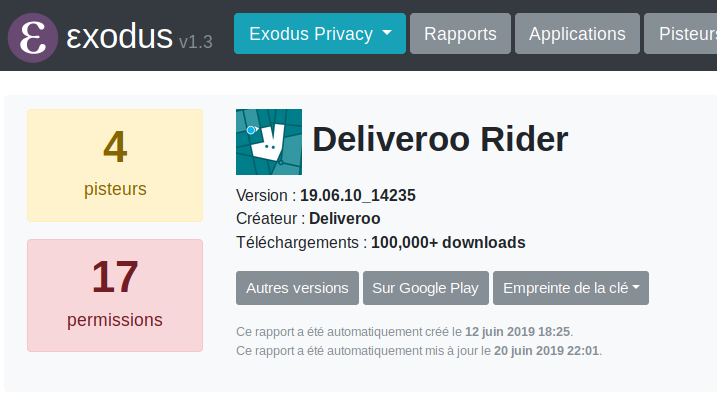
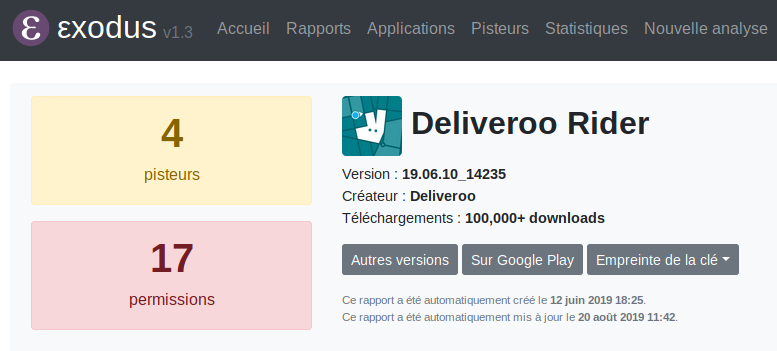
add the english translation focus on deliveroo (#26)
* add the english translation focus on deliveroo

* Correct some typos, add fa-hand-point-right in order to have the same look as the french version, reformate text to have shorter lines

* Updated deliveroo screenshots

* Removed extra line breaks and fixed english typos

diff --git a/content/post/deliveroorider.fr.md b/content/post/deliveroorider.fr.md
@@ -14,16 +14,13 @@ La plate-forme d'analyse εxodus permet de connaître le nombre de pisteurs dans
 * Elle ne peut pas préjuger du comportement des pisteurs.
 
 <center>
-<a href="https://reports.exodus-privacy.eu.org/fr/reports/84460/">
-            <img src="/media/deliverooreport.png" caption="le rapport d'analyse de Deliveroo rider">
-        </a>
+  <a href="https://reports.exodus-privacy.eu.org/fr/reports/84460/">
+    <img src="/media/deliverooreport.png" caption="le rapport d'analyse de Deliveroo rider">
+  </a>
 </center>
 
 C'est pourquoi nous utilisons le travail d'un projet libre intitulé
-[PiRanhaLysis](https://github.com/PiRanhaLysis) qui permet de faire de l'analyse
-dynamique. Comme expliqué dans l'enquête du Média TV, l'analyse avec le boîtier
-PiRogue permet d'intercepter et d'observer les données transmises par le
-téléphone, pendant l'utilisation d'une application (ici, Deliveroo Rider).
+[PiRanhaLysis](https://github.com/PiRanhaLysis) qui permet de faire de l'analyse dynamique. Comme expliqué dans l'enquête du Média TV, l'analyse avec le boîtier PiRogue permet d'intercepter et d'observer les données transmises par le téléphone, pendant l'utilisation d'une application (ici, Deliveroo Rider).
 
 <i class="fas fa-4X fa-hand-point-right"></i>&nbsp;Le téléphone utilisé ici est un Samsung SM-G361F, sous Android 5.1.1. Les résultats d'analyse peuvent bien sûr varier en fonction du téléphone utilisé et de son système d'exploitation.
 
@@ -36,46 +33,32 @@ L'analyse du trafic met en évidence des envois de données vers plusieurs desti
 * `Segment`, un analyseur de comportement[^1] ;
 * `Instabug` un logiciel permettant d'envoyer rapports de bugs et crashs.
 
-Parmi les données envoyées, nous trouvons à la fois des données relatives au
-téléphone et à l'usage qui est fait de l'application, parfois liées à des
-identifiants uniques, comme l'advertisingID[^2] ou le numéro Deliveroo du
-coursier ou de la coursière.
+Parmi les données envoyées, nous trouvons à la fois des données relatives au téléphone et à l'usage qui est fait de l'application, parfois liées à des identifiants uniques, comme l'advertisingID[^2] ou le numéro Deliveroo du coursier ou de la coursière.
 
 Plus précisément, si on reprend chaque envoi de données (qui interviennent de façon régulière) :
 
-* à Deliveroo sont envoyés l'identifiant du coursier ou de la coursière, sa zone
-de travail, sa disponibilité, quelle partie de l'application est utilisée et
-des éléments du téléphone comme la marque, le modèle et le niveau de batterie ;
-* à Appboy est envoyée la géolocalisation avec un identifiant de périphérique et
-une clef d'api qui permet d'utiliser les services de plateforme deliveroo.
-Cette clef d'api est liée au coursier ou à la coursière ;
-* à Instabug, avec l'identifiant du coursier ou de la coursière, sa zone de
-travail, son modèle de téléphone, sont envoyées des données relatives à une
-durée ;
-* Segment, quant à lui, collecte régulièrement toutes les actions dans
-l'application sous forme d' _events_, ainsi que l'identifiant du coursier ou
-de la coursière (l'`userID`), l'identifiant publicitaire (l'`advertisingID`),
-l'identifiant unique Android (l'`id`) [^3], l'opérateur téléphonique (le
-`carrier`), le modèle de téléphone, la résolution de l'écran, si le téléphone
-est connecté en WiFi…
+* à Deliveroo sont envoyés l'identifiant du coursier ou de la coursière, sa zone de travail, sa disponibilité, quelle partie de l'application est utilisée et des éléments du téléphone comme la marque, le modèle et le niveau de batterie ;
+* à Appboy est envoyée la géolocalisation avec un identifiant de périphérique et une clef d'api qui permet d'utiliser les services de
+plateforme deliveroo. Cette clef d'api est liée au coursier ou à la coursière ;
+* à Instabug, avec l'identifiant du coursier ou de la coursière, sa zone de travail, son modèle de téléphone, sont envoyées des données relatives à une durée ;
+* Segment, quant à lui, collecte régulièrement toutes les actions dans l'application sous forme d' _events_, ainsi que l'identifiant du coursier ou de la coursière (l'`userID`), l'identifiant publicitaire (l'`advertisingID`), l'identifiant unique Android (l'`id`) [^3], l'opérateur téléphonique (le `carrier`), le modèle de téléphone, la résolution de l'écran, si le téléphone est connecté en WiFi…
 
 <center>
-    <img src="/media/deliveroosegment.png" caption="les données envoyées à Segment">
+  <img src="/media/deliveroosegment.png" caption="les données envoyées à Segment">
 </center>
 
 ## En conclusion
+
 Par cette analyse, nous avons pu démontrer que des données, y compris certaines permettant d'identifier une personne avec précision, partaient chez des sociétés tierces par le biais de pisteurs inclus dans l'application Deliveroo Rider.
 
 ## Remerciements
+
 Nous tenons à remercier les équipes du MédiaTV qui ont travaillé avec nous avec un professionnalisme indéniable et nous espérons que ce billet vous aura intéressé.
 Merci également au projet Piranhalysis pour ces outils d'analyse.
 
 ## Et maintenant ?
-Si vous avez des questions, n'hésitez pas à [nous
-contacter](https://exodus-privacy.eu.org/fr/page/who/) et surtout, n'oubliez pas
-de [nous soutenir](https://exodus-privacy.eu.org/fr/page/contribute/) pour que
-nous puissions continuer à développer de telles analyses. En effet, nous allons
-essayer de publier ces __Focus sur…__ à intervalles plus ou moins réguliers.
+
+Si vous avez des questions, n'hésitez pas à [nous contacter](/fr/page/who/) et surtout, n'oubliez pas de [nous soutenir](/fr/page/contribute/) pour que nous puissions continuer à développer de telles analyses. En effet, nous allons essayer de publier ces __Focus sur…__ à intervalles plus ou moins réguliers.
 
 [^1]: le but est de comprendre comment les utilisateurs se servent de l'application pour améliorer cette dernière
 

diff --git a/content/post/deliveroorider.en.md b/content/post/deliveroorider.en.md
@@ -1,0 +1,67 @@
+---
+title: "Focus on Deliveroo Rider app"
+date: 2019-07-10 09:01:00
+draft: false
+---
+
+We have been contacted last May by [Le MédiaTV](https://lemediatv.fr) as part of an investigation about delivery riders. The journalist wanted to know more about the Deliveroo Rider app (used by the riders) and what types of data it could collect. This incidentally matched our wish to develop in-depth application analysis and publish them on this blog. [The video from Le Média](https://www.youtube.com/watch?v=qW8DmMqO6iE) thus allows us to open this new type of articles in which we offer to detail our method and the full results.
+
+## Our method
+
+The εxodus analysis platform enables you to know how many trackers are in an application. For instance, for [Deliveroo Rider app version 19.06.24_14235](https://reports.exodus-privacy.eu.org/en/reports/80251/) we found 4 trackers. This "static analysis" has two limits :
+
+* It may not detect every present tracker.
+* It can't predict the trackers' behavior.
+
+<center>
+  <a href="https://reports.exodus-privacy.eu.org/en/reports/84460/">
+    <img src="/media/deliverooreportEN.png" caption="Deliveroo rider app report">
+  </a>
+</center>
+
+That's why we use a free software project named [PiRanhaLysis](https://github.com/PiRanhaLysis), which allows us to do dynamic analysis. As explained in Le Média TV's investigation, the PiRogue module allows us to intercept and observe the data transmitted by the phone while an application is used (here, Deliveroo Rider).
+
+<i class="fas fa-4X fa-hand-point-right"></i>&nbsp;We used a Samsung SM-G361F, with Android 5.1.1. The results may vary depending on the phone or the operating system.
+
+## Our results
+
+The traffic analysis highlights that data is sent to several destinations:
+
+* `Deliveroo`;
+* `Appboy`, which has since become Braze, an advertising network
+managing client data and marketing;
+* `Segment`, a behavior analyzer[^1];
+* `Instabug`, a software for sending bugs and crash reports.
+
+Among the data that have been sent, we can find data related to both the device and the application usage, which are sometimes linked to unique identifiers, like the advertisingID[^2] or the Deliveroo courier number.
+
+More precisely, if we take each data transmission (which occurs on a regular basis):
+
+* Deliveroo receives the identifier of the courier, their area, their
+availability, which part of the application is used and phone characteristics such as brand, model and battery level;
+* Appboy receives the geolocation with a device ID and an API key that enables the use of the deliveroo platform services. This API key is linked to the courier;
+* Instabug receives the ID of the courier, their work area, their mobile phone model and some timing data;
+* Segment, on the other hand, regularly collects all actions in the application in the form of _events_, as well as the courier's ID (the `userID`),  the advertising identifier (the `advertisingID`), the unique Android identifier (the `id`)[^3] the Mobile Network Operator, the phone model, the screen resolution, if the phone is connected via WiFi…
+
+<center>
+  <img src="/media/deliveroosegment.png" caption="data sent to Segment">
+</center>
+
+## In conclusion
+
+Through this analysis, we were able to demonstrate that data, including data that could accurately identify a person, was being sent to third party companies through trackers included in the Deliveroo Rider application.
+
+## Acknowledgements
+
+We would like to thank the MediaTV teams who worked with us with undeniable professionalism and we hope that this post will have been of interest to you.
+Thanks also to the Piranhalysis project for these analysis tools.
+
+## Now what?
+
+If you have any questions, feel free to [contact us](/en/page/who/) and, particularly, do not forget to [support us](/en/page/contribute/) so that we can continue to produce similar analyses.  In fact, we are going to try to publish these __Focus on…__ on a more or less regular basis.
+
+[^1]: the goal is to understand how users make use of the application in order to improve it
+
+[^2]: this is the advertising ID generated when the phone is connected to Google Play. It is therefore strongly attached to the ownership of the phone. It is nevertheless possible to change it, by going to the phone settings.
+
+[^3]: the Android ID is generated at the first start of Android on the phone and can only be reset with a full phone reset (return to factory settings).
